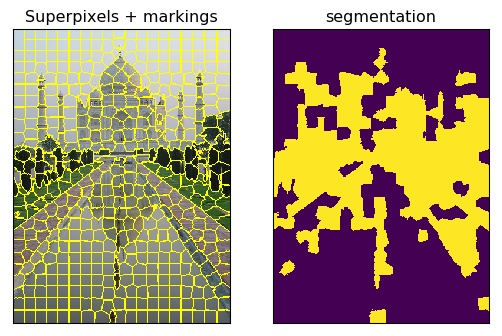
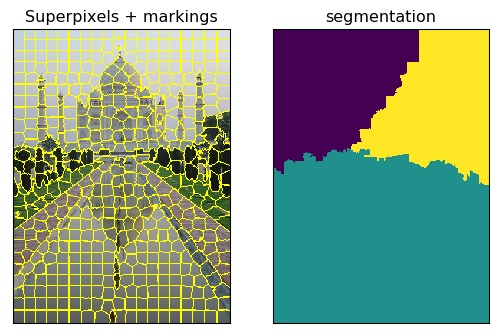
Added sift but results are useless

Changed region(s): [[0.5378, 0.0893, 0.9861, 0.9821], [0.9263, 0.4464, 0.9861, 0.506]]

diff --git a/algorithms/algorithms.py b/algorithms/algorithms.py
@@ -17,9 +17,9 @@ class Algorithms:
         self.imgs_segmentation = dict()                          # Stores for each pixel its superpixel it belongs to
         self.imgs_segment_ids = dict()                           # List of superpixel indices
         self.imgs_segment_neighbors = dict()                     # Stores for each superpixel a list of its neighbors
+        self.imgs_segment_centers = dict()
         self.imgs_segment_histograms_hsv = dict()                # Stores for each superpixel a hsv histogram
-        self.imgs_sift_keypoints = dict()
-        self.imgs_sift_descriptors = dict()
+        self.imgs_segment_sift_keypoints = dict()
         self.imgs_segment_sift_descriptors = dict()
         self.imgs_segment_histograms_hsv_normalized = dict()     # Stores for each superpixel a normalized hsv histogram
         self.imgs_histograms_hsv = dict()                        # A hsv histogram of the entire image
@@ -34,6 +34,28 @@ class Algorithms:
             self.imgs_segmentation[image] = slic.get_segmented_image(self.imgs_float64[image], num_segments,
                                                                      compactness, max_iter, sigma)
             self.imgs_segment_ids[image] = np.unique(self.imgs_segmentation[image])
+
+    # compute the neighbor segments of each segment
+    def compute_neighbors(self):
+        for img in self.images:
+            vs_right = np.vstack([self.imgs_segmentation[img][:, :-1].ravel(), self.imgs_segmentation[img][:, 1:].ravel()])
+            vs_below = np.vstack([self.imgs_segmentation[img][:-1, :].ravel(), self.imgs_segmentation[img][1:, :].ravel()])
+            neighbor_edges = np.unique(np.hstack([vs_right, vs_below]), axis=1)
+            self.imgs_segment_neighbors[img] = [[] for i in self.imgs_segment_ids[img]]
+            for i in range(len(neighbor_edges[0])):
+                if neighbor_edges[0][i] != neighbor_edges[1][i]:
+                    self.imgs_segment_neighbors[img][neighbor_edges[0][i]].append(neighbor_edges[1][i])
+                    self.imgs_segment_neighbors[img][neighbor_edges[1][i]].append(neighbor_edges[0][i])
+
+    # compute the center of each segment
+    def compute_centers(self):
+        for img in self.images:
+            self.imgs_segment_centers[img] = []
+            for i in self.imgs_segment_ids[img]:
+                # Retrieve indices of segment i
+                indices = np.where(self.imgs_segmentation[img] == i)
+                # Center is mean of indices
+                self.imgs_segment_centers[img].append((np.mean(indices[0]), np.mean(indices[1])))
 
     # generate hsv histograms for every segment in all images
     # also generates normalized versions
@@ -50,17 +72,11 @@ class Algorithms:
 
     def compute_sift(self):
         sift = cv2.xfeatures2d_SIFT.create()
+
         for img in self.images:
             gray = cv2.cvtColor(cv2.imread(img), cv2.COLOR_BGR2GRAY)
-            self.imgs_sift_keypoints[img], self.imgs_sift_descriptors[img] = sift.detectAndCompute(gray, None)
-
-            self.imgs_segment_sift_descriptors[img] = [np.zeros(128) for i in self.imgs_segment_ids[img]]
-            # TODO experimental: Give each superpixel one sift descriptor
-            for i in range(len(self.imgs_sift_keypoints[img])):
-                x = int(round(self.imgs_sift_keypoints[img][i].pt[0]))
-                y = int(round(self.imgs_sift_keypoints[img][i].pt[1]))
-                self.imgs_segment_sift_descriptors[img][self.imgs_segmentation[img][y][x]] = self.imgs_sift_descriptors[img][i]
-
+            self.imgs_segment_sift_keypoints[img] = [cv2.KeyPoint(self.imgs_segment_centers[img][i][1], self.imgs_segment_centers[img][i][0], 64.0, -1) for i in self.imgs_segment_ids[img]]
+            self.imgs_segment_sift_keypoints[img], self.imgs_segment_sift_descriptors[img] = sift.compute(gray, self.imgs_segment_sift_keypoints[img])
 
     # Shows a plot of the histogram of the entire image at image_path or one of its segments
     def show_histogram(self, image_path, segment=None):
@@ -74,18 +90,6 @@ class Algorithms:
         plt.ylabel('Hue bins')
         plt.show()
         plt.clf()
-
-    # compute the neighbor segments of each segment
-    def compute_neighbors(self):
-        for img in self.images:
-            vs_right = np.vstack([self.imgs_segmentation[img][:, :-1].ravel(), self.imgs_segmentation[img][:, 1:].ravel()])
-            vs_below = np.vstack([self.imgs_segmentation[img][:-1, :].ravel(), self.imgs_segmentation[img][1:, :].ravel()])
-            neighbor_edges = np.unique(np.hstack([vs_right, vs_below]), axis=1)
-            self.imgs_segment_neighbors[img] = [[] for i in self.imgs_segment_ids[img]]
-            for i in range(len(neighbor_edges[0])):
-                if neighbor_edges[0][i] != neighbor_edges[1][i]:
-                    self.imgs_segment_neighbors[img][neighbor_edges[0][i]].append(neighbor_edges[1][i])
-                    self.imgs_segment_neighbors[img][neighbor_edges[1][i]].append(neighbor_edges[0][i])
 
     # sets the foreground of the image at image_path to segments
     def set_fg_segments(self, image_path, segments):
@@ -241,6 +245,7 @@ if __name__ == '__main__':
     # Segment the images into superpixels using slic and compute for each superpixel a list of its neighbors
     alg.compute_superpixels_slic(num_segments=500, compactness=20.0, max_iter=10, sigma=0)
     alg.compute_neighbors()
+    alg.compute_centers()
 
     # alg.save_segmented_images('output/superpixel')
 
@@ -260,7 +265,7 @@ if __name__ == '__main__':
             alg.set_fg_segments(image, fg_segments)
             alg.set_bg_segments(image, bg_segments)
 
-    alg.perform_clustering(2, 'kmeans', 'both')
+    alg.perform_clustering(3, 'kmeans', 'sift')
 
     for image in image_paths:
         cv2.imwrite('output/masks/'+image.split('/')[-1], np.uint8(alg.get_coseg_mask(image, 0)*255))
